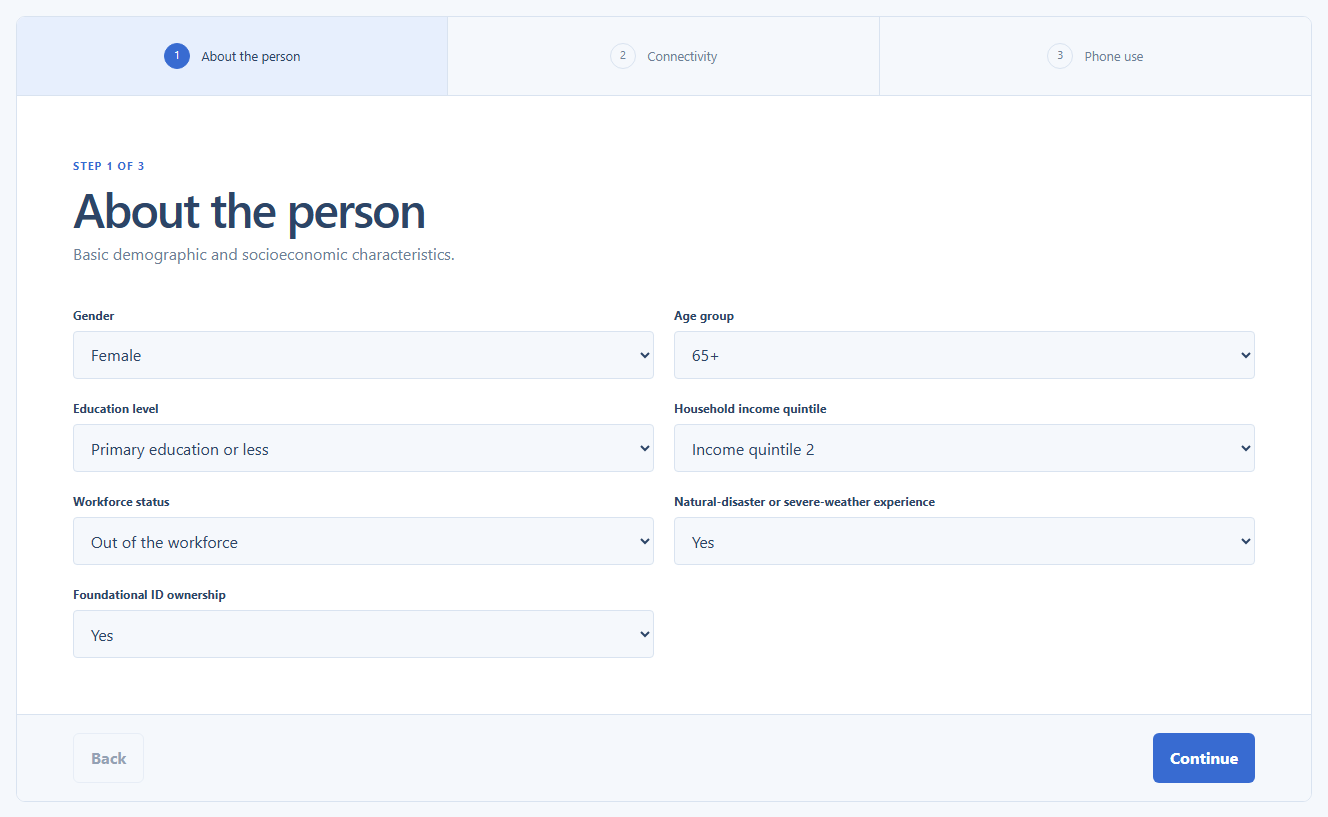
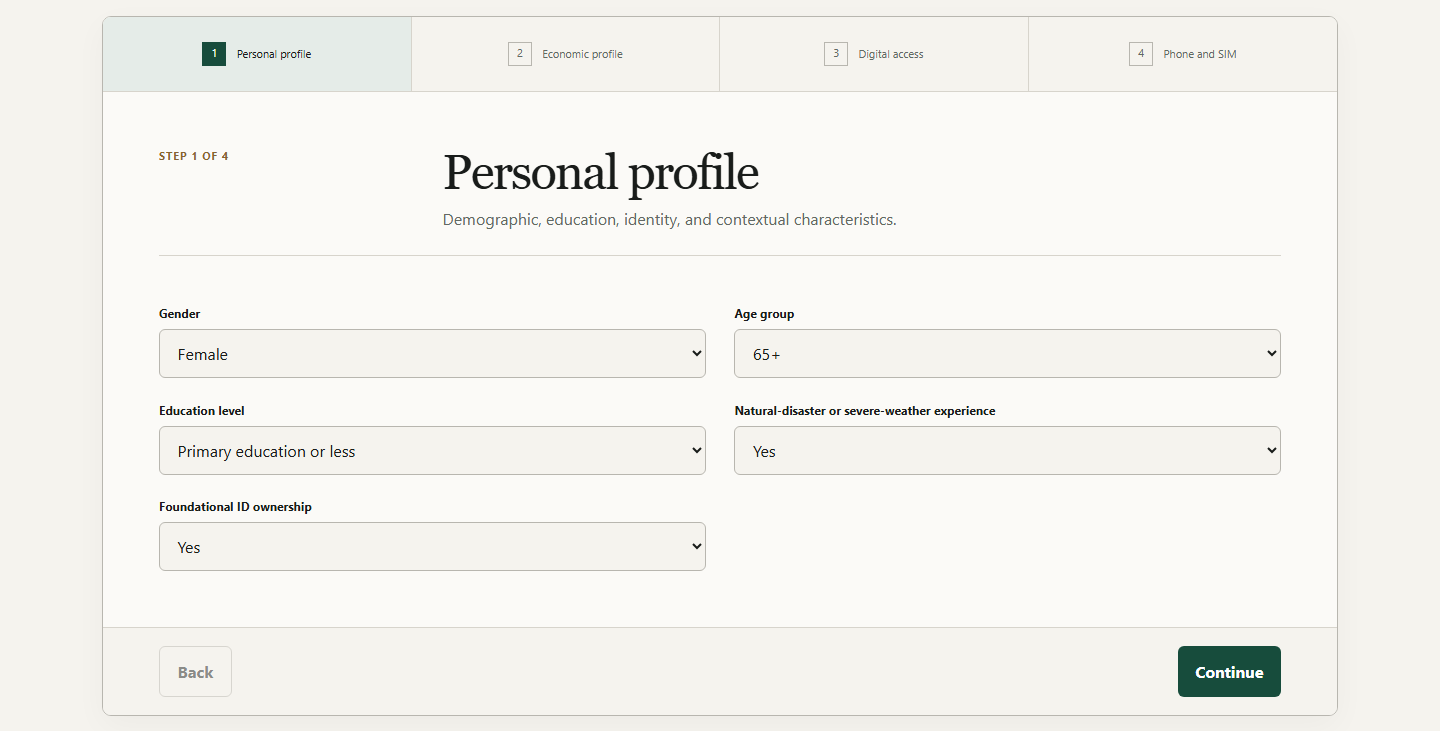
Refresh and resize README screenshots

diff --git a/README.md b/README.md
@@ -156,15 +156,21 @@ The finished product combines analytical evidence, both models, and their explan
 
 ### Dashboard overview
 
-![FinAccess Eswatini dashboard](reports/phase_13/screenshots/01_overview.png)
+<p align="center">
+  <img src="reports/phase_13/screenshots/01_overview.png" alt="FinAccess Eswatini dashboard" width="80%">
+</p>
 
 ### Prediction interface
 
-![Financial Access Assessment](reports/phase_13/screenshots/02_assessment.png)
+<p align="center">
+  <img src="reports/phase_13/screenshots/02_assessment.png" alt="Financial Access Assessment" width="80%">
+</p>
 
 ### Model output example
 
-![Financial inclusion and mobile-money prediction output](reports/phase_13/screenshots/03_assessment_results.png)
+<p align="center">
+  <img src="reports/phase_13/screenshots/03_assessment_results.png" alt="Financial inclusion and mobile-money prediction output" width="80%">
+</p>
 
 One submitted profile is validated once, routed through two separate preprocessing pipelines, scored by both models, and returned with two natural-language answers, supporting probabilities, and five model-derived factors per outcome.
 
